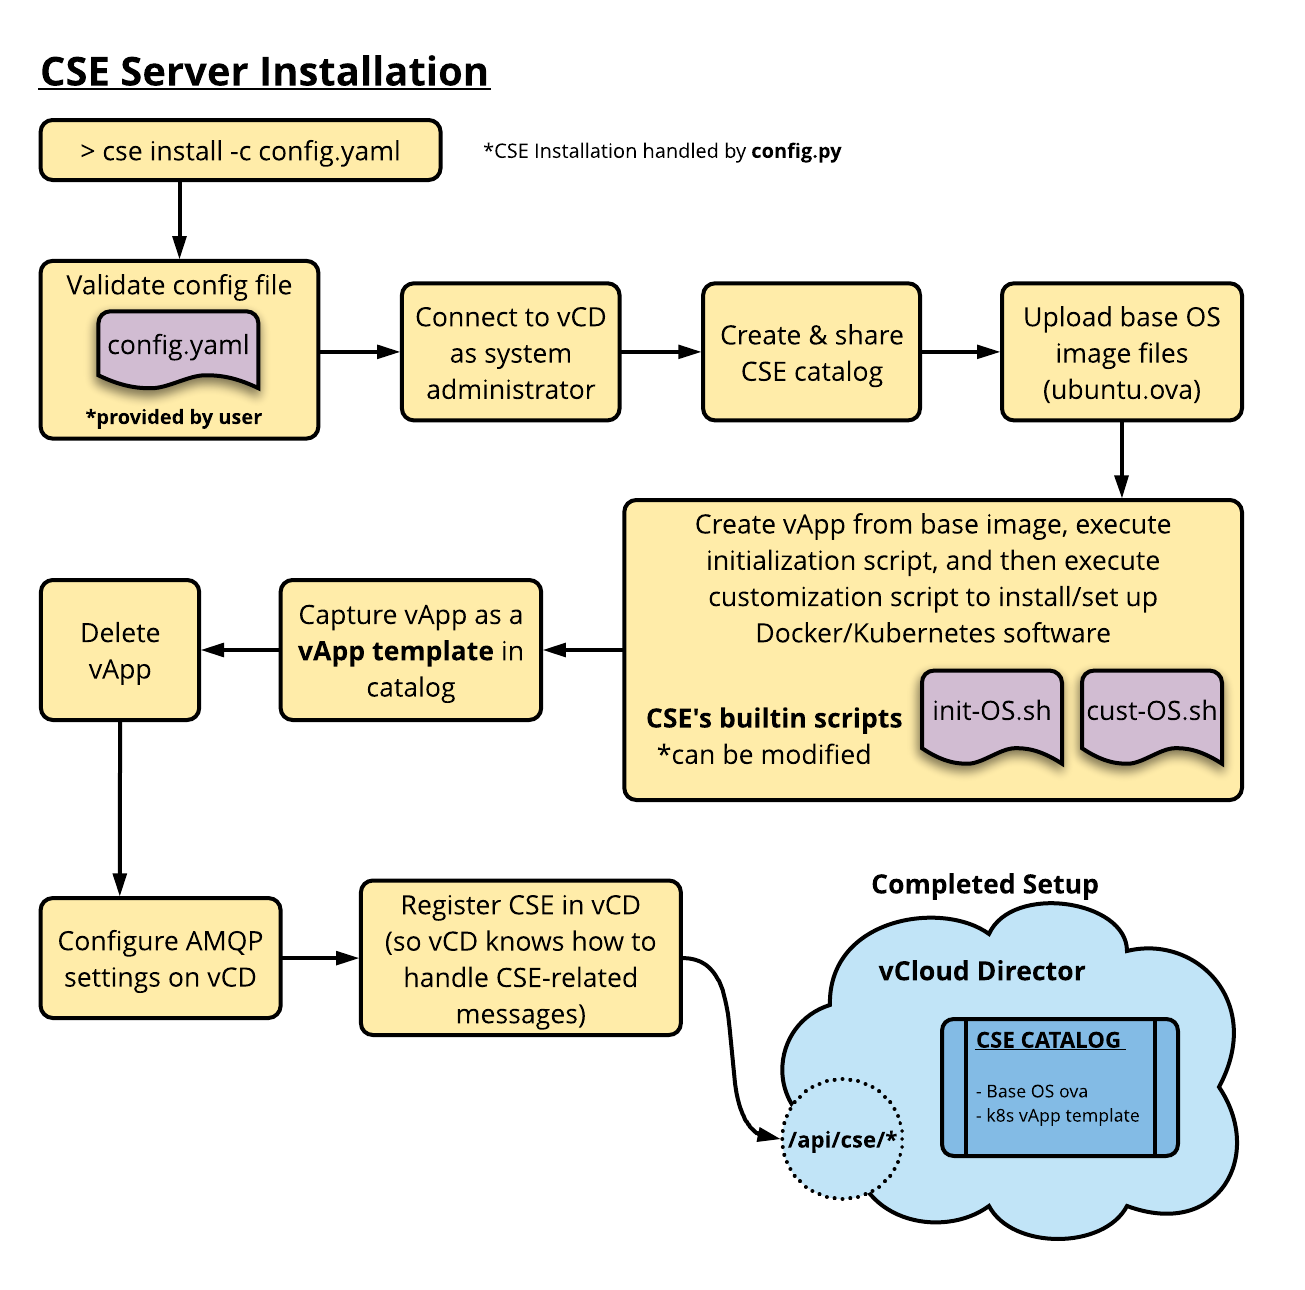
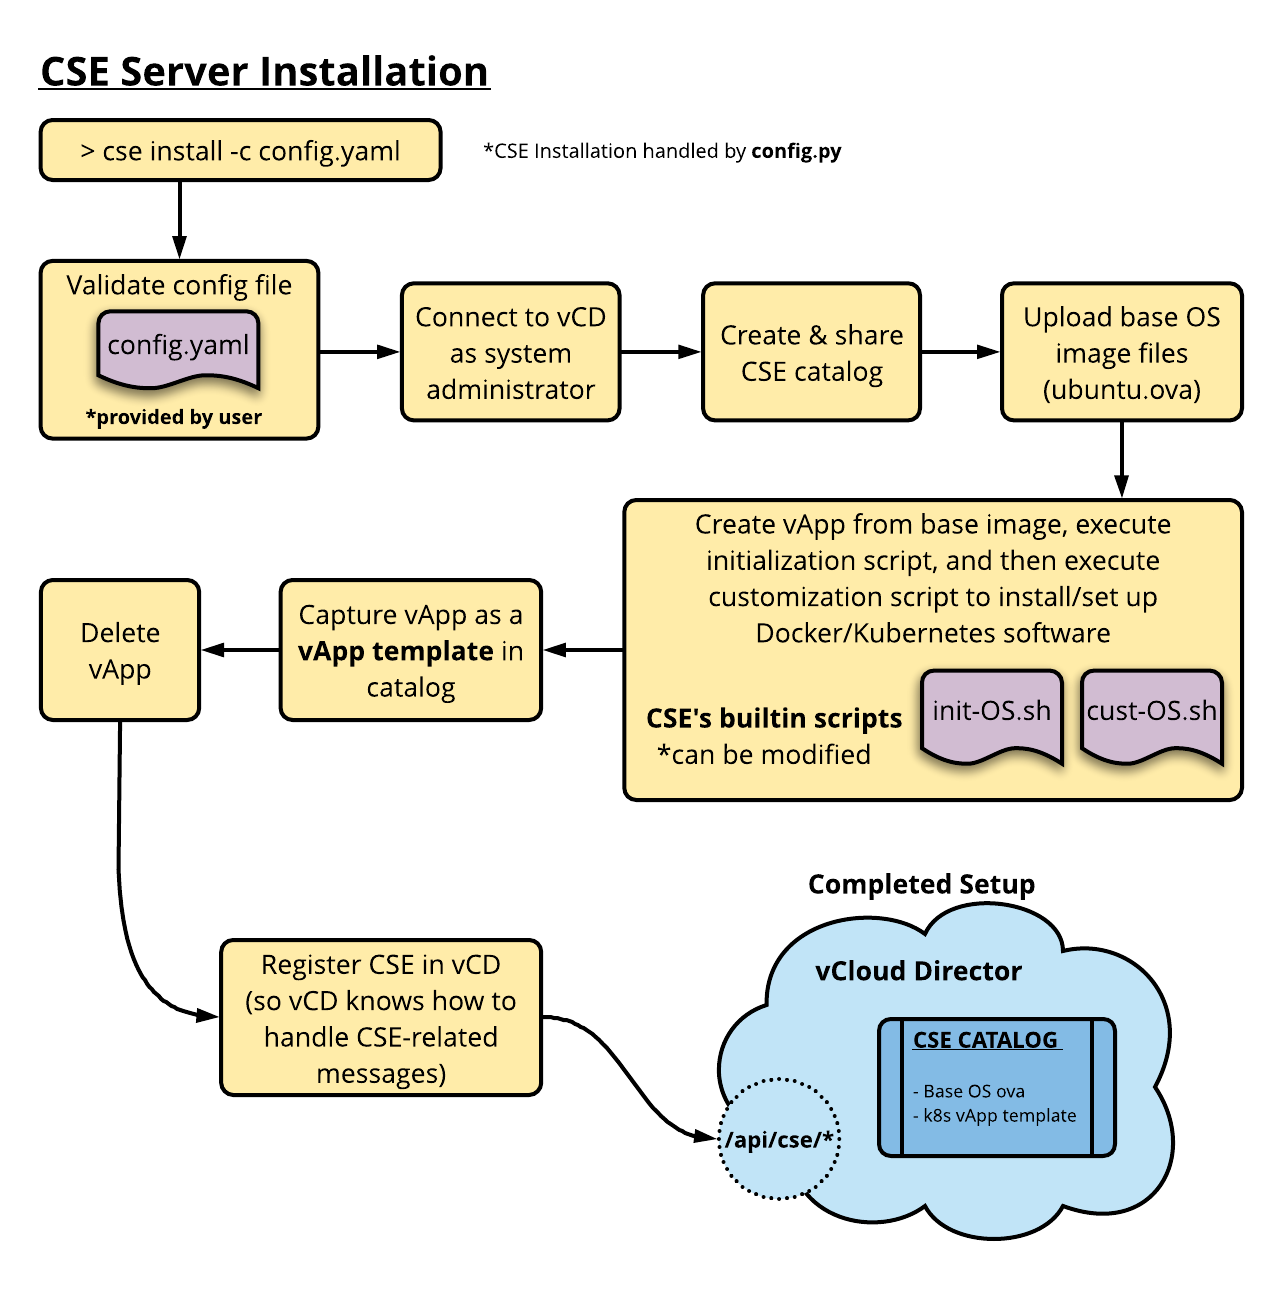
Remove vCD AMQP configuration from CSE workflows
Update docs to reflect that we do not configure vCD AMQP anymore.
CSE should not be updating vCD AMQP configuration, as that
may break functionality for other existing extensions.

diff --git a/container_service_extension/cse.py b/container_service_extension/cse.py
@@ -48,10 +48,6 @@ def cli(ctx):
             private key have access (--ssh-key is required when --no-capture
             is used).
 \b
-        cse install --amqp skip --ext config
-            Install CSE, but skip amqp configuration step and register CSE to
-            vCD without prompting.
-\b
         cse check
             Checks that 'config.yaml' is valid.
 \b
@@ -194,13 +190,6 @@ def check(ctx, config, check_install, template):
     help='SSH public key to connect to the guest OS on the VM'
 )
 @click.option(
-    '-a',
-    '--amqp',
-    'amqp_install',
-    default='prompt',
-    type=click.Choice(['prompt', 'skip', 'config']),
-    help='AMQP configuration')
-@click.option(
     '-e',
     '--ext',
     'ext_install',
@@ -208,7 +197,7 @@ def check(ctx, config, check_install, template):
     type=click.Choice(['prompt', 'skip', 'config']),
     help='API Extension configuration')
 def install(ctx, config, template, update, no_capture, ssh_key_file,
-            amqp_install, ext_install):
+            ext_install):
     """Install CSE on vCloud Director."""
     if no_capture and ssh_key_file is None:
         click.echo('Must provide ssh-key file (using --ssh-key OR -k) if '
@@ -220,7 +209,7 @@ def install(ctx, config, template, update, no_capture, ssh_key_file,
             ssh_key = ssh_key_file.read()
         install_cse(ctx, config_file_name=config, template_name=template,
                     update=update, no_capture=no_capture, ssh_key=ssh_key,
-                    amqp_install=amqp_install, ext_install=ext_install)
+                    ext_install=ext_install)
 
 
 @cli.command(short_help='run service')

diff --git a/container_service_extension/config.py b/container_service_extension/config.py
@@ -447,7 +447,7 @@ def check_cse_installation(config, check_template='*'):
 
 def install_cse(ctx, config_file_name='config.yaml', template_name='*',
                 update=False, no_capture=False, ssh_key=None,
-                amqp_install='prompt', ext_install='prompt'):
+                ext_install='prompt'):
     """Handle logistics for CSE installation.
 
     Handles decision making for configuring AMQP exchange/settings,
@@ -462,9 +462,6 @@ def install_cse(ctx, config_file_name='config.yaml', template_name='*',
     :param bool no_capture: if True, temporary vApp will not be captured or
         destroyed, so the user can ssh into and debug the VM.
     :param str ssh_key: public ssh key to place into template vApp(s).
-    :param str amqp_install: 'prompt' asks the user if vCD AMQP should be
-        configured. 'skip' does not configure vCD AMQP. 'config' configures
-        vCD AMQP without asking the user.
     :param str ext_install: 'prompt' asks the user if CSE should be registered
         to vCD. 'skip' does not register CSE to vCD. 'config' registers CSE
         to vCD without asking the user.

diff --git a/docs/CSE_ADMIN.md b/docs/CSE_ADMIN.md
@@ -447,7 +447,6 @@ The `cse install` command supports the following options:
 | \--update     | -u    | n/a                      | Recreate templates during installation                                                                                                                     | False                                         |
 | \--no-capture | -n    | n/a                      | Don't capture the temporary vApp as a template   (Leaves it standing for debugging purposes)                                                               | False                                         |
 | \--ssh-key    | -k    | path/to/ssh-key.pub      | ssh-key file to use for vm access   (root password ssh access is disabled for security reasons)                                                            | None                                          |
-| \--amqp       | -a    | prompt OR skip OR config | **prompt**: ask before configuring AMQP settings<br>**skip**: do not configure AMQP settings<br>**config**: configure AMQP without asking for confirmation | prompt                                        |
 | \--ext        | -e    | prompt OR skip OR config | **prompt**: ask before registering CSE<br>**skip**: do not register CSE<br>**config**: register CSE without asking for confirmation                        | prompt                                        |
 
 To monitor the vApp customization process, you can ssh into the temporary vApp. In the temporary vApp, the output of the customization script is captured in `/tmp/FILENAME.out` as well as `/tmp/FILENAME.err`:
